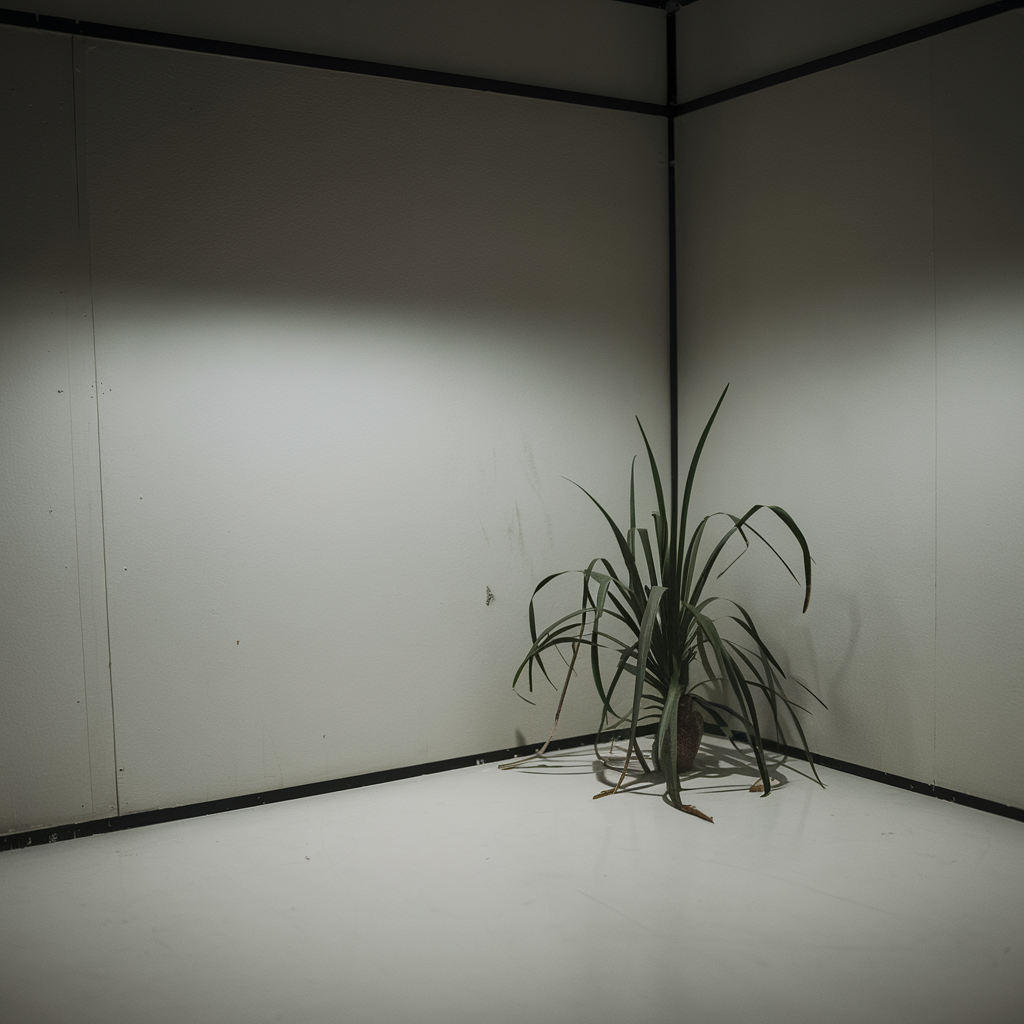
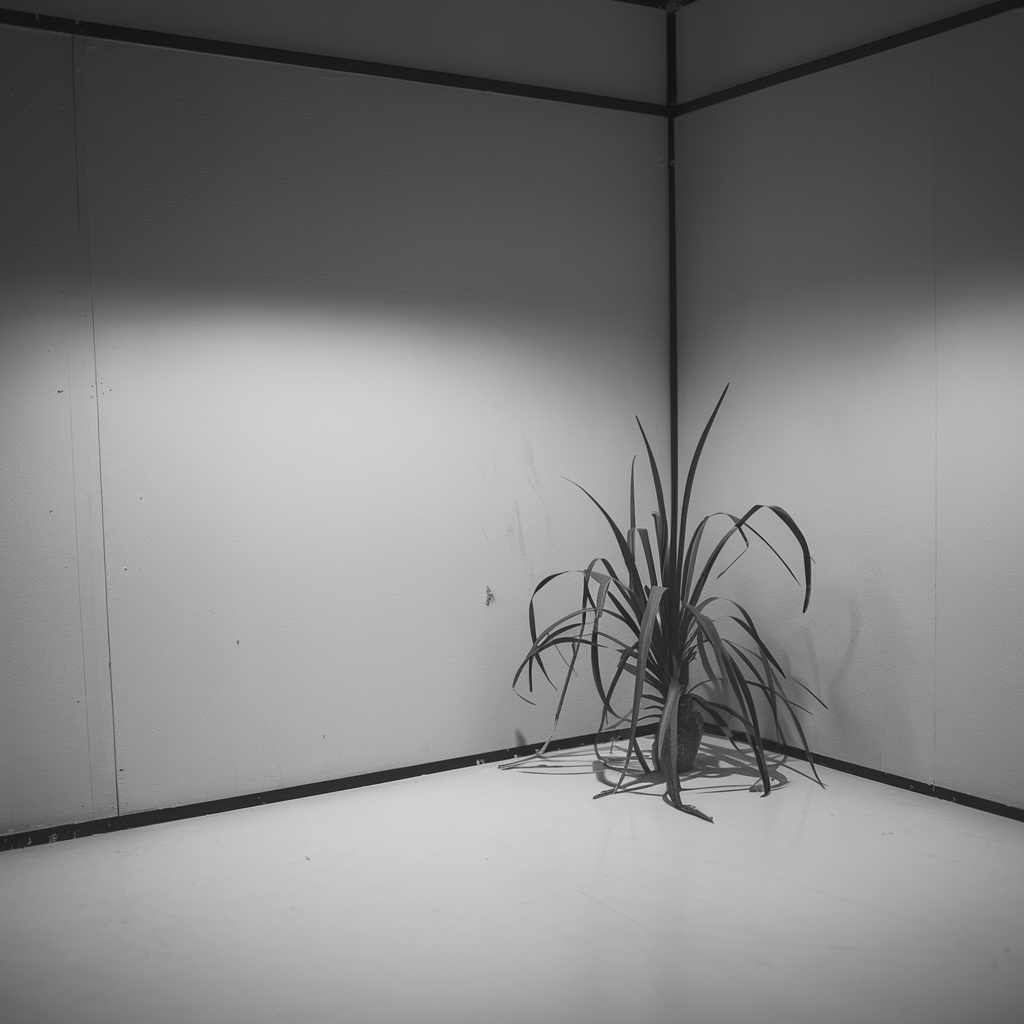
b3.png is now in b/w

diff --git a/content/text/peculiar/index.md b/content/text/peculiar/index.md
@@ -18,7 +18,7 @@ summary:  >
             Sometimes you come across texts that share one common peculiarity: they are all incredibly boring.   
             Each of them tells you nothing, and leaves you in exactly the same state of mind as before.<br>
 
-            How should we respond to this?
+            What could be a reasonable course of action?
 
 ---
 
@@ -27,17 +27,18 @@ Sometimes you come across some texts that share one common peculiarity: they are
 
 Each of them tells you nothing, and leaves you in exactly the same state of mind as before.
 You would not be able to recall what each was about - much less, *why was it even there*.  
-This does not appear to be by chance: clearly lots of work went into these texts.
+This does not appear to be by chance: it is clear, even at first glance, that lots of 
+care went into crafting them.
 They mean nothing, but in a very deliberate way: *as if they were designed not to mean anything*.
 
 They are the white noise of the written word.  
 
 Wondering about the meaning of what has explicitly been
 designed to have no meaning is a fool's errand.
-Where does this leave us, then?
+What could be a reasonable course of action, then?
 
 One valuable clue is, if there are any insights to be gained,
-it could be useful to change our perspective a bit.
+it could be useful to shift our perspective a bit.
 
 {{< gallery images="images/b1.png,images/b2.png,images/b3.png,images/b4.png" >}}
 
@@ -55,7 +56,7 @@ Not "What is its audience?", but *"What could their motivations be?*".
 It is always useful to pause, just for a moment, thinking about these questions.  
 Texts are never neutral: they inherently involve questions of who acts and why, shaping how we engage with meaning.
 
-![Daniel](images/daniel_m.jpg?width=200#center)
+![Daniel](images/daniel_m.jpg?width=320#center)
 
 
  
